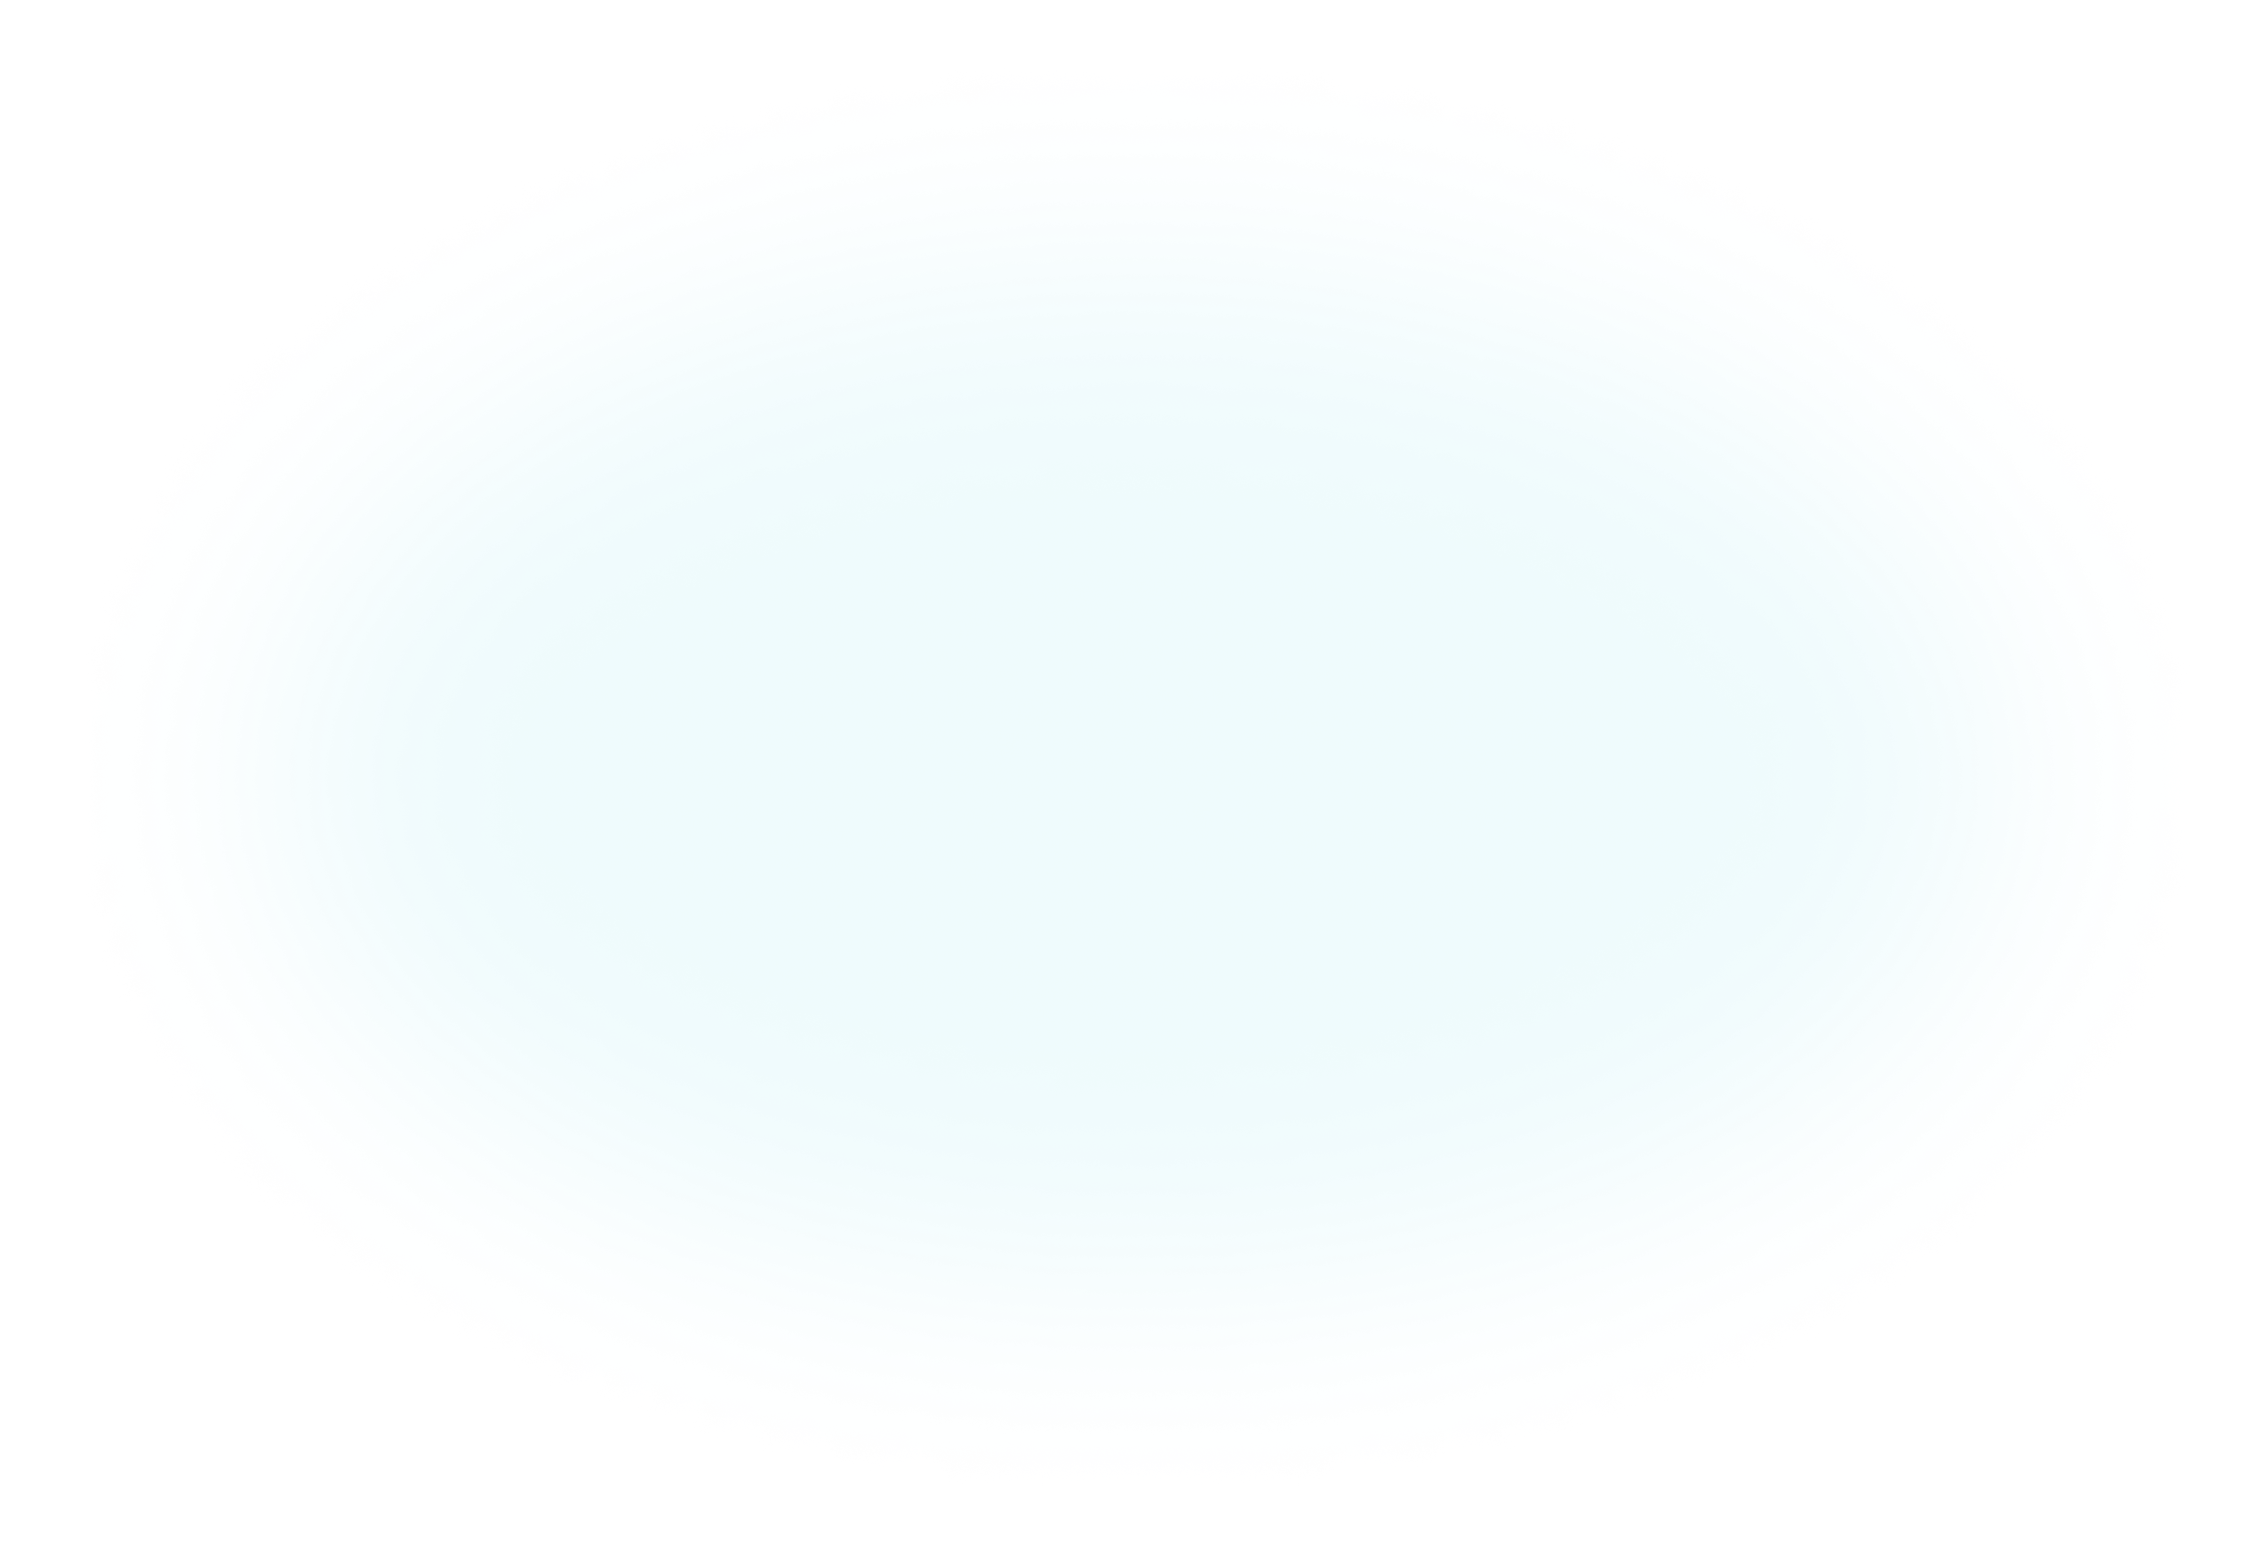
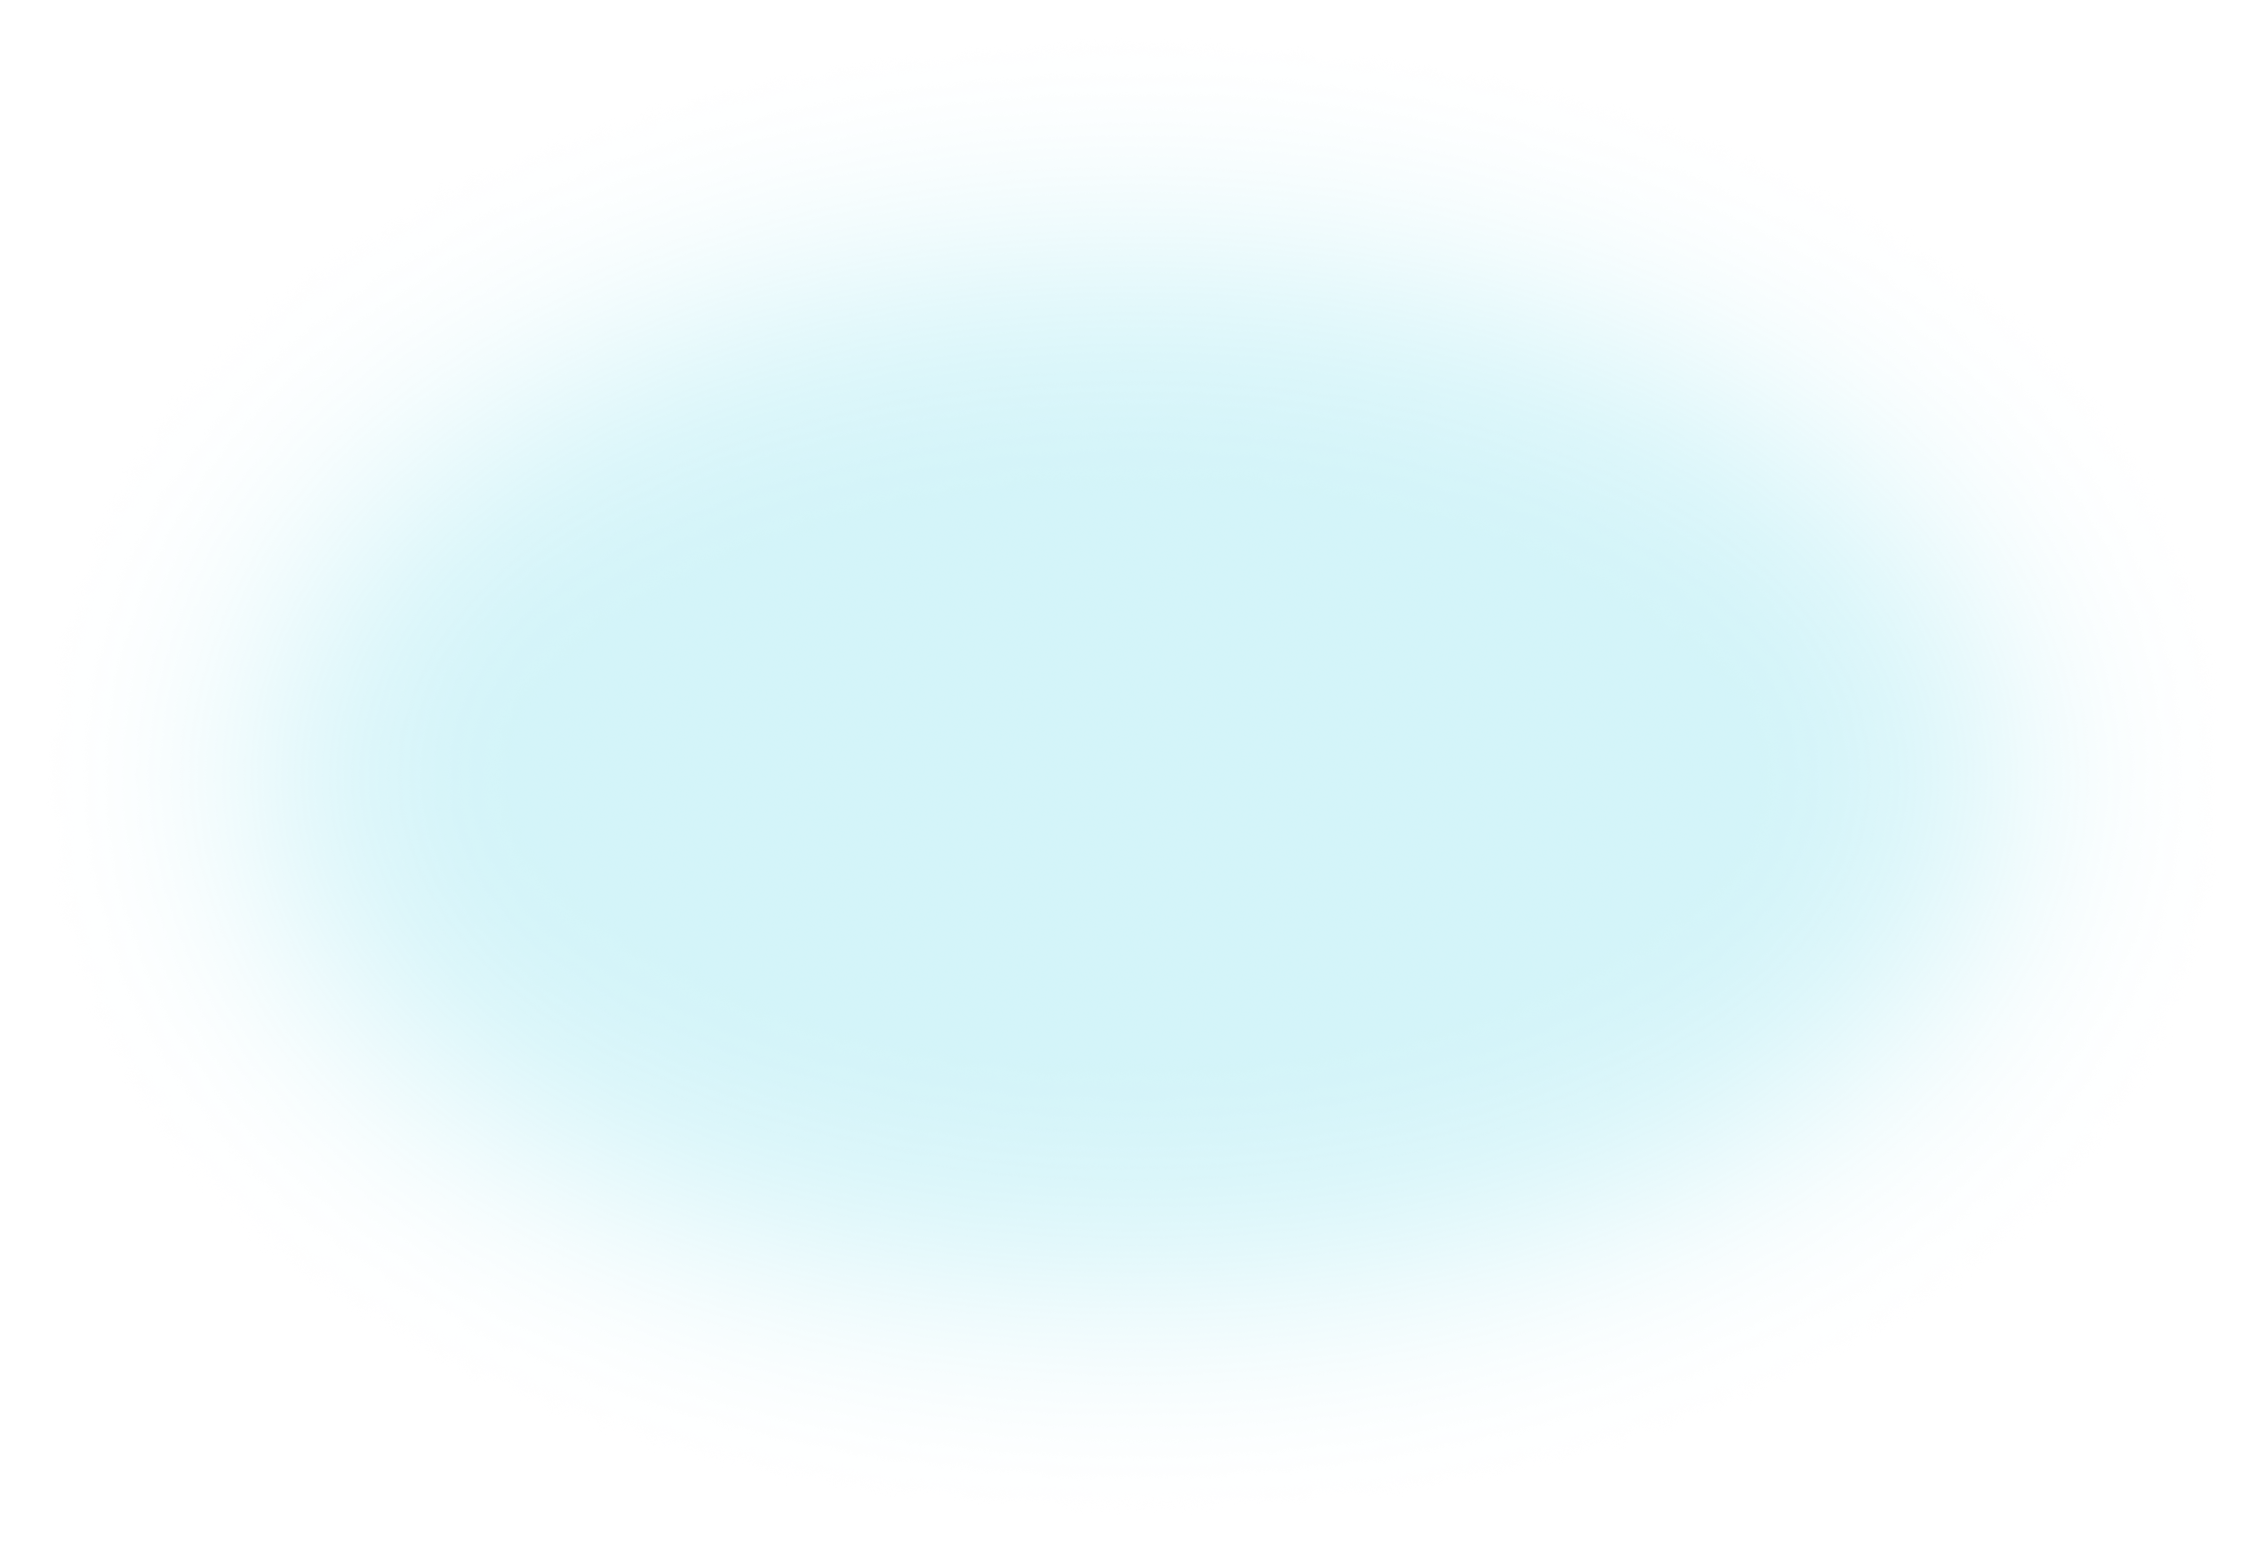
finished...
i have added the oval image and also if you can
can you change the text color when the input field
is being type upon.

Changed region(s): [[0.1852, 0.2474, 0.8333, 0.7732]]

diff --git a/PrepMaster/src/LandingPage/Footer.jsx b/PrepMaster/src/LandingPage/Footer.jsx
@@ -1,9 +1,66 @@
+import BlackButton from "../Components/BlackButton";
 import CustomButton from "../Components/CustomButton";
-export function Footer(){
+import prepmaster from "./../assets/White PrepMaster.png";
+import instagram from "./../assets/instagram 1.svg";
+import twitter from "./../assets/twitter 1.svg";
+import linkedin from "./../assets/linkedin 1.svg";
+import facebook from "./../assets/facebook 1.svg";
+import message from "./../assets/memo 1.svg";
+import whatsup from "./../assets/whatsapp 1.svg";
+
+const lists = [
+    {
+        id: 1,
+        list1: "Information",
+        list2: "Services",
+        list3: "Pricing",
+        list4: "Testimonials"
+    },
+    {
+        id: 2,
+        list1: "Help",
+        list2: "Customer Support",
+        list3: "Privacy Policy",
+        list4: "Terms & Conditions"
+    }
+];
+
+export function Footer() {
     return (
-        <div className="flex flex-row w-full justify-between items-center py-2 px-48">
-            <div>PrepMasters © 2023 All rights reserved</div>
-            <CustomButton text={"Send"} padding={"0.7rem 2.3rem"} />
+        <div className="w-full flex flex-col justify-between pt-10 pb-2 footer mt-20" style={{ height: "30rem" }}>
+            <div className="px-12 flex flex-row justify-between mr-8">
+                <img src={prepmaster} alt="prepmaster" style={{ height: "3rem" }} />
+                <div className="flex flex-row justify-between" style={{ width: "30rem" }}>
+                    {lists.map((list) => (
+                        <div className="flex flex-col justify-between" key={list.id}>
+                            <div className="font-medium text-white text-lg">{list.list1}</div>
+                            <div className="text-white text-base">{list.list2}</div>
+                            <div className="text-white text-base">{list.list3}</div>
+                            <div className="text-white text-base">{list.list4}</div>
+                        </div>
+                    ))}
+                </div>
+                <div className="flex flex-col justify-between h-44" style={{width:"26rem"}}>
+                    <div className="text-white text-lg font-medium">Subscribe to our newsletter</div>
+                    <div className="text-white text-base">Get all of the latest education news about our services and offers by subscribing to our weekly newsletter.</div>
+                    <div className="flex flex-row w-full">
+                        <input type="text" className="w-full bg-transparent last pl-4 placeholder-white focus::placeholder-white" placeholder="Enter Email Address"/>
+                        <BlackButton />
+                    </div>
+                </div>
+            </div>
+            <div className="border-t py-4 px-12 flex flex-row justify-between items-center">
+                <div className="text-white text-base">PrepMasters © 2023 All rights reserved</div>
+                <div className="text-white text-lg">Made by Trident Technologies</div>
+                <div className="flex flex-row gap-6">
+                    <img src={instagram} alt="instagram" />
+                    <img src={twitter} alt="twitter" />
+                    <img src={linkedin} alt="linkedin" />
+                    <img src={facebook} alt="facebook" />
+                    <img src={message} alt="message" />
+                    <img src={whatsup} alt="whatsup" />
+                </div>
+            </div>
         </div>
     );
 }

diff --git a/PrepMaster/src/LandingPage/FAQ.jsx b/PrepMaster/src/LandingPage/FAQ.jsx
@@ -2,6 +2,7 @@ import { useState } from "react";
 import minus from "./../assets/minus.png";
 import plus from "./../assets/plus.png";
 
+
 export function FAQ() {
   const [activeAnswer, setActiveAnswer] = useState();
   const [showAnswer, setShowAnswer] = useState(false);
@@ -45,7 +46,7 @@ export function FAQ() {
   };
 
   return (
-    <div className="flex flex-col justify-evenly items-center  my-40">
+    <div className="flex flex-col justify-evenly items-center text-center my-40">
       <div className="text-5xl mb-10">
         Got Any <span className="span">Questions</span>? We've Got The{" "}
         <span className="span">Answers</span>
@@ -61,7 +62,7 @@ export function FAQ() {
             }`}
             key={faq.id}
           >
-            <div className="flex flex-row justify-between items-center font-medium">
+            <div className="flex flex-row justify-between items-center font-medium px-20">
               <div className="flex-1 text-2xl">{faq.question}</div>
               <img
                 src={activeAnswer === index ? minus : plus}

diff --git a/PrepMaster/src/LandingPage/Contacts.jsx b/PrepMaster/src/LandingPage/Contacts.jsx
@@ -7,10 +7,11 @@ import facebook from "./../assets/facebook.svg";
 import message from "./../assets/memo.svg";
 import whatsup from "./../assets/whatsapp.svg";
 import maper from "./../assets/Mapsicle Map.svg";
+import CustomButton from "../Components/CustomButton";
 export function Contacts() {
   return (
     <div id="contacts">
-      <div className="flex felx-row justify-evenly mt-64 mb-6 " id="contact">
+      <div className="flex felx-row justify-evenly mt-64 mb-24 " id="contact">
         <div className="flex flex-col gap-6">
           <p className="text-5xl font-semibold">
             Need Additional <span className="span"> Infromation ? </span>
@@ -67,6 +68,10 @@ export function Contacts() {
           />
         </div>
       </div>
+      <div className="flex flex-row w-full justify-between items-center py-2 px-44">
+            <div className="opacity-0">PrepMasters © 2023 All rights reserved</div>
+            <CustomButton text={"Send"} padding={"0.7rem 2.3rem"} />
+        </div>
     </div>
   );
 }

diff --git a/PrepMaster/src/index.css b/PrepMaster/src/index.css
@@ -14,7 +14,17 @@
   font-family: "Plus Jakarta Sans", "system-ui";
   color: #2a2a2a;
 }
+  /* TODO: make the absolute oval shade on top */
 
+.top{
+  position: relative;
+}
+.back{
+  position: absolute;
+  top:-62rem;
+  left: 2rem;
+  right:0;
+}
 .fixed-nav {
   position: fixed;
   top: 0;
@@ -45,6 +55,15 @@
 
 .test {
   border: solid 1px red;
+}
+.last{
+  border: solid 2px #2e2e2e;
+  border-top-left-radius:0.5rem;
+  border-bottom-left-radius: 0.5rem;
+  margin-right: -1rem;
+}
+.last:focus::placeholder {
+  color:white;
 }
 
 .Navigations .active {

diff --git a/PrepMaster/src/Components/BlackButton.jsx b/PrepMaster/src/Components/BlackButton.jsx
@@ -1,0 +1,20 @@
+import Button from "@mui/material/Button";
+
+export default function BlackButton() {
+  return (
+    <Button
+      variant="contained"
+      style={{
+        width: "fit-content",
+        backgroundColor: "#2E2E2E",
+        borderTopRightRadius: "0.5rem",
+        borderBottomRightRadius:"0.5rem",
+        padding:"0.9rem 2.3rem"
+      }}
+      disableElevation
+      sx={{ textTransform: "none" }}
+    >
+      <p className="text-xs text-white">Send</p>{" "}
+    </Button>
+  );
+}

diff --git a/PrepMaster/src/LandingPage/Home.jsx b/PrepMaster/src/LandingPage/Home.jsx
@@ -3,6 +3,7 @@ import { NavLink } from "react-router-dom";
 import Signup from "../Signup/Signup";
 import DemosContainer from "./DemoContainer";
 import { Companies } from "./Companies";
+import back from "./../assets/half-image.png";
 
 export default function Home() {
   return (
